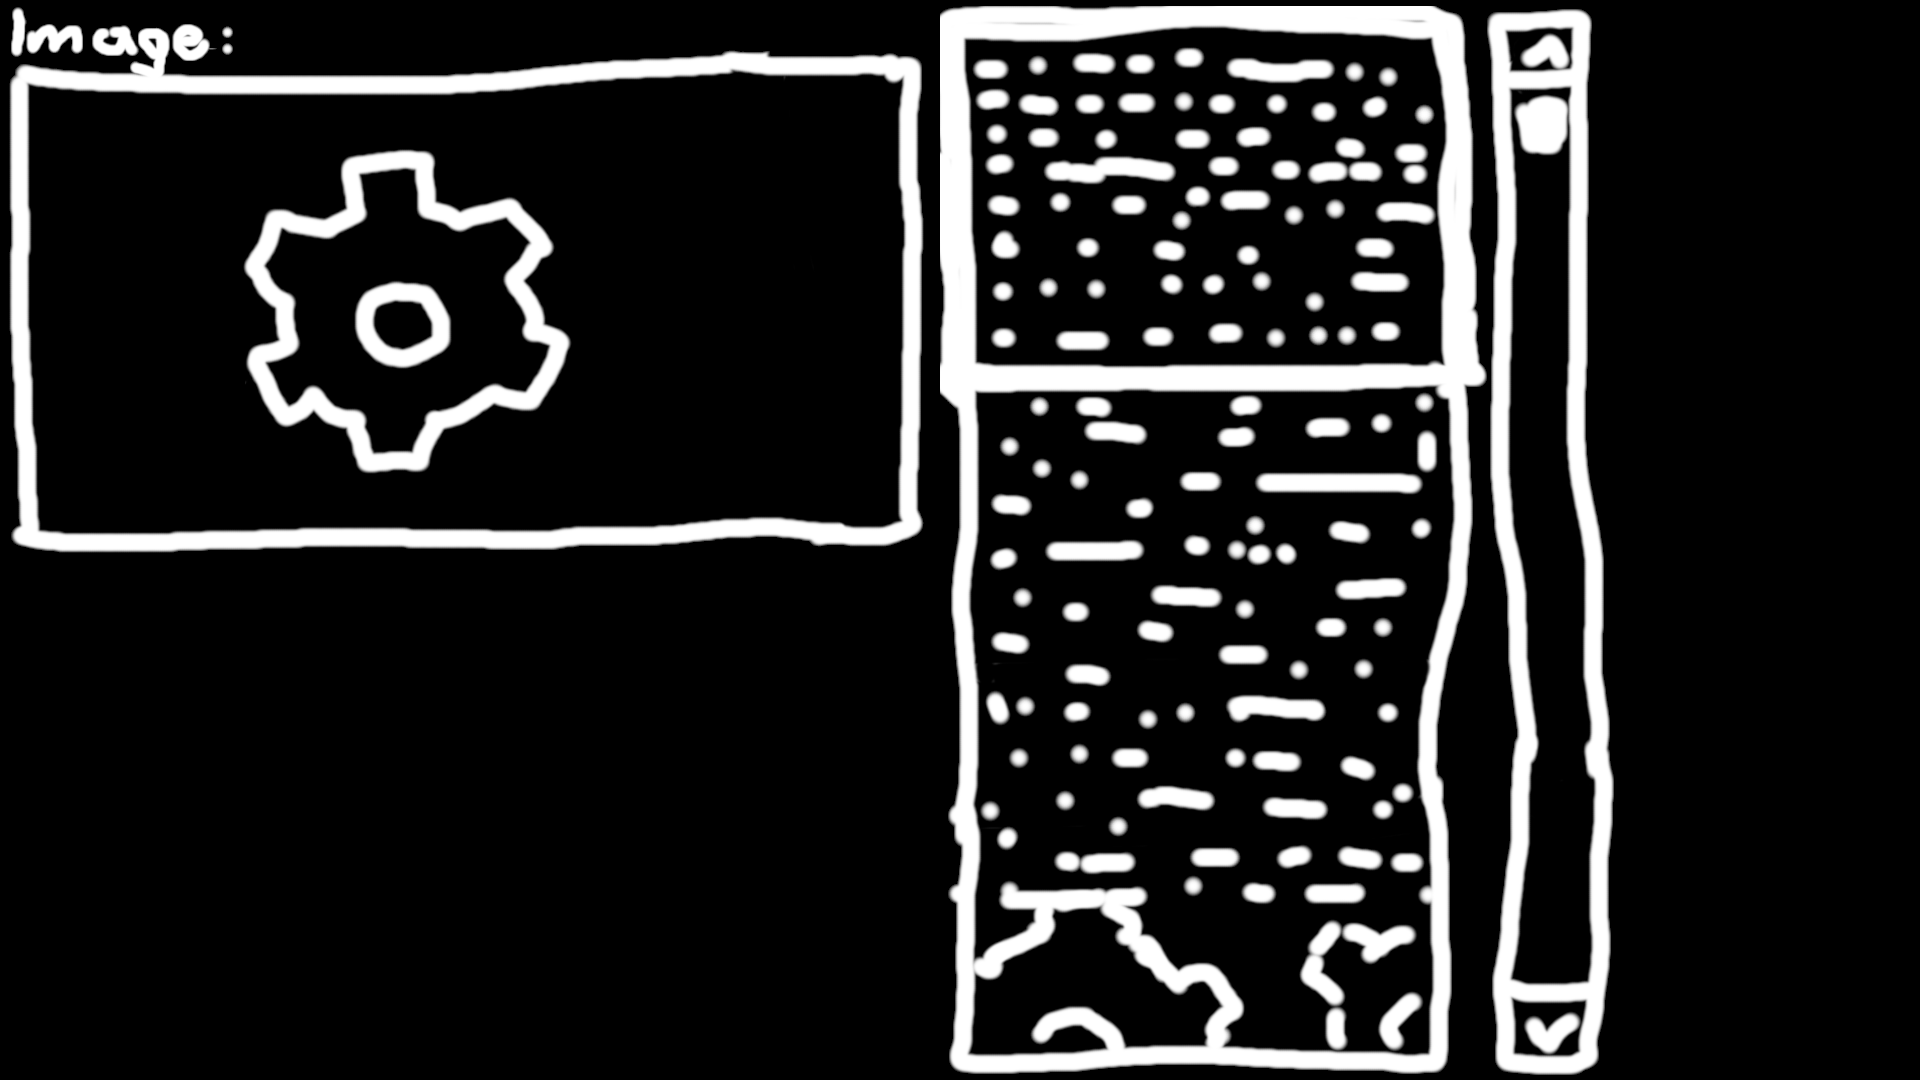
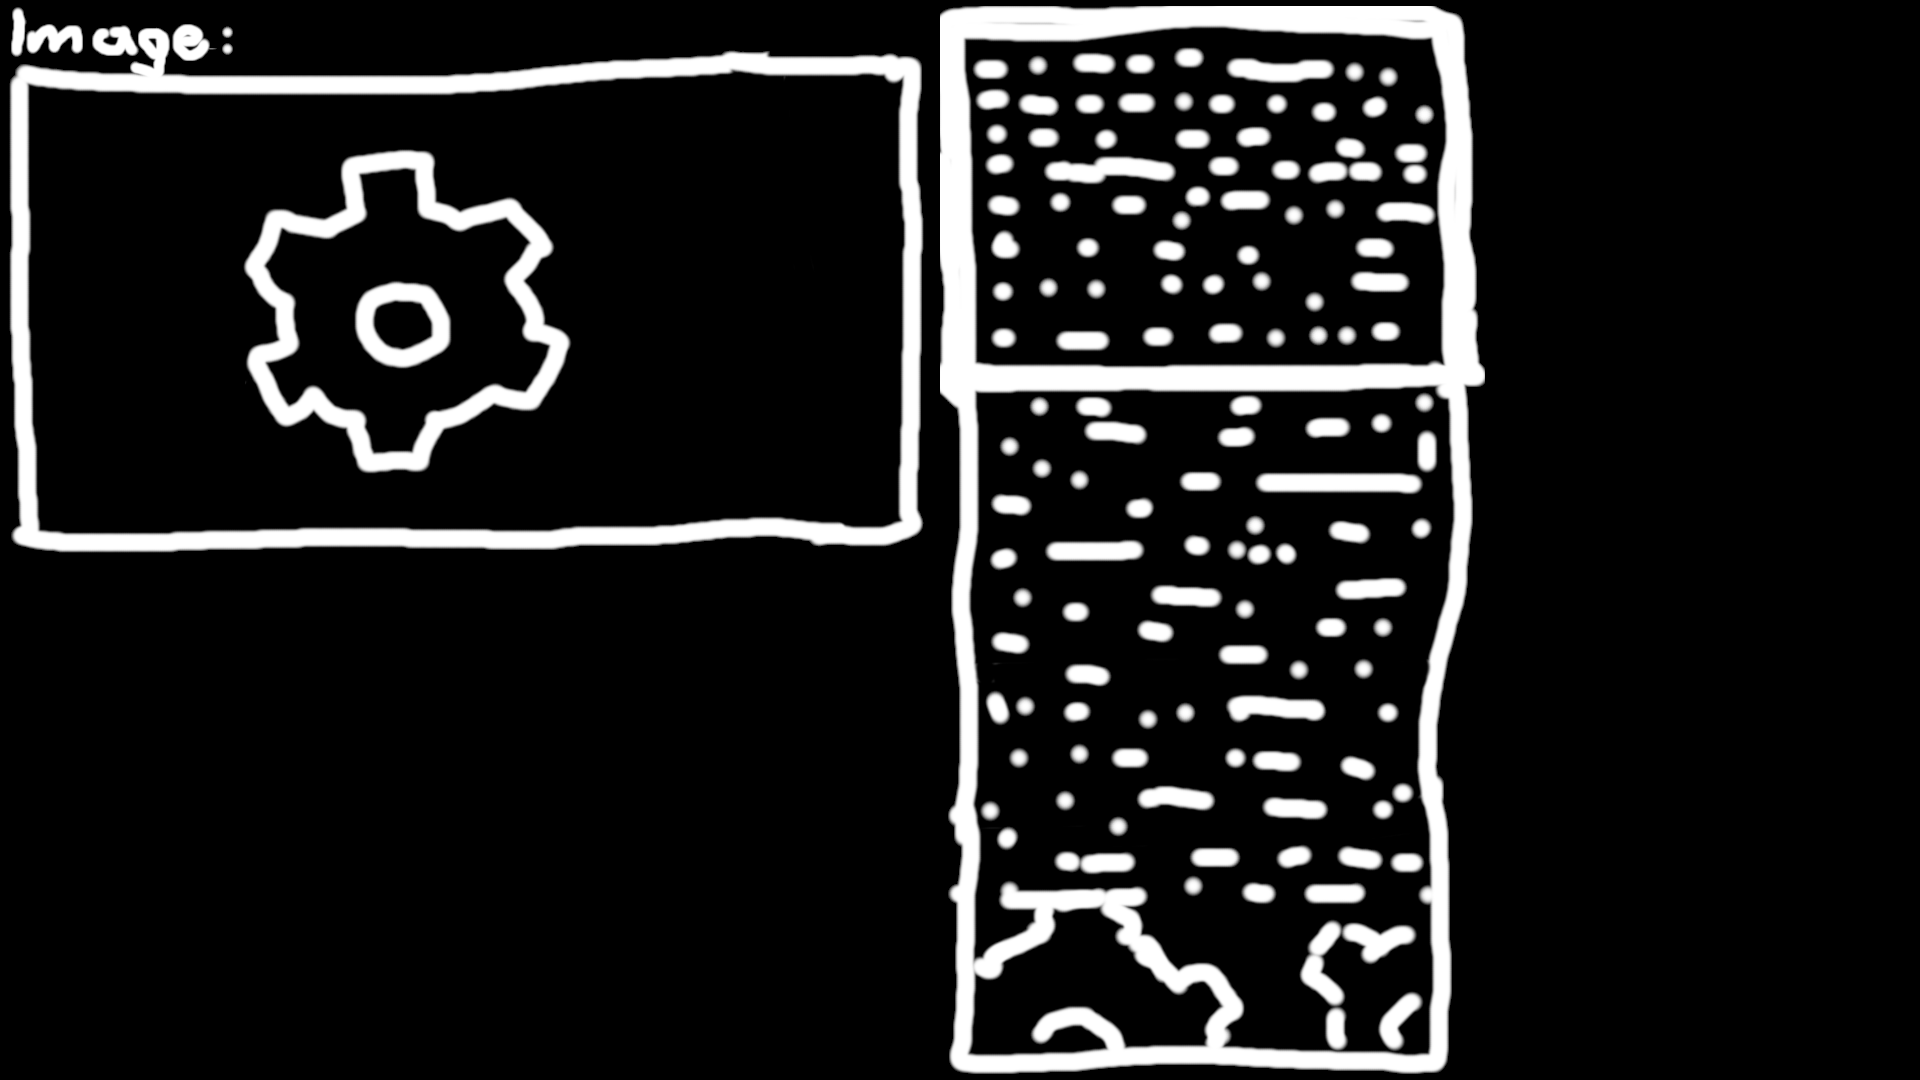
Fixing more around the vertical slider bar in the bitmap mini game.

Changed region(s): [[0.75, 0.0, 0.8438, 1.0]]

diff --git a/RallyTheRobots/GUI/Common/InputChecker.cs b/RallyTheRobots/GUI/Common/InputChecker.cs
@@ -179,13 +179,13 @@ namespace RallyTheRobots.GUI.Common
             Vector2 mousePosition = resolution.ScreenToGameCoord(new Vector2(mouseScreenPosition.X, mouseScreenPosition.Y));
             Rectangle buttonAreaSliderRect = buttonArea.GetHorizontalSliderRectangle();
             if ((int)mousePosition.X < buttonAreaSliderRect.X + (int)offset.X - buttonArea.SliderBorderLeft || (int)mousePosition.X > buttonAreaSliderRect.X + (int)offset.X + buttonAreaSliderRect.Width + buttonArea.SliderBorderRight || buttonAreaSliderRect.Width == 0)
-                return -2; //TODO: This value need explaining
+                return -2; //This click was outside of the borders of the horizontal slider
             else if ((int)mousePosition.X <= buttonAreaSliderRect.X + (int)offset.X)
-                return -1; //TODO: This value need explaining
+                return -1; //This click was on to the left border of the horizontal slider
             else if ((int)mousePosition.X >= buttonAreaSliderRect.X + (int)offset.X + buttonAreaSliderRect.Width)
-                return 101; //TODO: This value need explaining
+                return 101; //This click was on the right border of the horizontal slider
             else
-                return (int)((mousePosition.X - (buttonAreaSliderRect.X + offset.X)) / buttonAreaSliderRect.Width * 100f + 0.5f); //TODO: This value should be explained too
+                return (int)((mousePosition.X - (buttonAreaSliderRect.X + offset.X)) / buttonAreaSliderRect.Width * 100f + 0.5f); //Current position of the click of the mouse within the horizontal slider rectangle, recounted to max 100
         }
         public virtual int VerticalValueMouseSliderButtonArea(ButtonArea buttonArea, Vector2 offset, IResolution resolution)
         {
@@ -193,13 +193,13 @@ namespace RallyTheRobots.GUI.Common
             Vector2 mousePosition = resolution.ScreenToGameCoord(new Vector2(mouseScreenPosition.X, mouseScreenPosition.Y));
             Rectangle buttonAreaSliderRect = buttonArea.GetVerticalSliderRectangle();
             if ((int)mousePosition.Y < buttonAreaSliderRect.Y + (int)offset.Y - buttonArea.SliderBorderTop || (int)mousePosition.Y > buttonAreaSliderRect.Y + (int)offset.Y + buttonAreaSliderRect.Height + buttonArea.SliderBorderBottom || buttonAreaSliderRect.Height == 0)
-                return -2; //TODO: This value need explaining
+                return -2; //This click was outside of the borders of the vertical slider
             else if ((int)mousePosition.Y <= buttonAreaSliderRect.Y + (int)offset.Y)
-                return -1; //TODO: This value need explaining
+                return -1; //This click was on the the top border of the vertical slider
             else if ((int)mousePosition.Y >= buttonAreaSliderRect.Y + (int)offset.Y + buttonAreaSliderRect.Height)
-                return 101; //TODO: This value need explaining
+                return 101; //This click was on the bottom border of the vertical slider
             else
-                return (int)((mousePosition.Y - (buttonAreaSliderRect.Y + offset.Y)) / buttonAreaSliderRect.Height * 100f + 0.5f); //TODO: This value should be explained too
+                return (int)((mousePosition.Y - (buttonAreaSliderRect.Y + offset.Y)) / buttonAreaSliderRect.Height * 100f + 0.5f); //Current position of the click of the mouse within the vertical slider rectangle, recounted to max 100
         }
         public virtual bool HasMouseWheelMoved()
         {

diff --git a/RallyTheRobots/GUI/BitmapMinigameScreen.cs b/RallyTheRobots/GUI/BitmapMinigameScreen.cs
@@ -101,6 +101,7 @@ namespace RallyTheRobots.GUI
 
             _upButton.AddImage("bitmap_mg_up");
             _upButton.Position = new Vector2(1100, 5);
+            _upButton.SetButtonSelectAction(new ChangeValueButtonAction(_positionSlider, 0, -1));
             AddButtonArea(_upButton);
 
             _positionSlider.AddImage("bitmap_mg_slider_bar", ButtonAreaImageNameTypeEnum.Actual, ButtonAreaImagePositioningEnum.ValueVerticalSlider, ButtonAreaImageStackDirectionEnum.None);
@@ -110,12 +111,17 @@ namespace RallyTheRobots.GUI
             _positionSlider.SliderBorderBottom = 45;
             AddButtonArea(_positionSlider);
 
+
             _downButton.AddImage("bitmap_mg_down");
             _downButton.Position = new Vector2(1100, 975);
+            _downButton.SetButtonSelectAction(new ChangeValueButtonAction(_positionSlider, 0, 1));
             AddButtonArea(_downButton);
 
             ScreenChangeOnPauseKey(_screenManager.GetScreen<PauseMenuScreen>());
             SetFocusedButtonArea(_widthButton);
+            SetPreviousHorizontalAction(new ChangeValueFocusedButtonAction(0, -1)); //Using the scroll next horizontal, for sliding horizontal slider bar up
+            SetNextHorizontalAction(new ChangeValueFocusedButtonAction(0, 1)); //Using the scroll previous horizontal, for sliding horizontal slider bar down
+
             base.Initialize();
         }
         public override void EnterScreen(GameTime gameTime, GameSettings gameSettings, Screen oldScreen)
@@ -126,7 +132,7 @@ namespace RallyTheRobots.GUI
             _paletteButton.SetCurrentRollingState("system");
             _addressButton.SetCurrentRollingState("low");
             _modeButton.SetCurrentRollingState("normal");
-            _positionSlider.SetCurrentVerticalValue(0);
+            _positionSlider.SetCurrentVerticalSliderValue(0);
 
             base.EnterScreen(gameTime, gameSettings, oldScreen);
         }

diff --git a/RallyTheRobots/GUI/Common/ButtonArea.cs b/RallyTheRobots/GUI/Common/ButtonArea.cs
@@ -87,7 +87,7 @@ namespace RallyTheRobots
             }
             _buttonAreaImage.Initialize();
         }
-        public void SetCurrentHorizontalValue(int currentValue)
+        public void SetCurrentHorizontalSliderValue(int currentValue)
         {
             _currentHorizontalValue = currentValue;
         }
@@ -95,7 +95,7 @@ namespace RallyTheRobots
         {
             return _currentHorizontalValue;
         }
-        public void SetCurrentVerticalValue(int currentValue)
+        public void SetCurrentVerticalSliderValue(int currentValue)
         {
             _currentVerticalValue = currentValue;
         }
@@ -112,10 +112,10 @@ namespace RallyTheRobots
                     _buttonSelectAction.DoAction(manager, screen, gameTime, gameSettings, gameStatus);
                 }
                 int horizontalSlider = _inputChecker.HorizontalValueMouseSliderButtonArea(this, offset, resolution);
-                if (horizontalSlider != -2) //TODO: This need explaining
+                if (horizontalSlider != -2) // -2 means it was outside the borders of the slider
                     _currentHorizontalValue = Math.Max(Math.Min(horizontalSlider, 100), 0);
                 int verticalSlider = _inputChecker.VerticalValueMouseSliderButtonArea(this, offset, resolution);
-                if (verticalSlider != -2) //TODO: This need explaining
+                if (verticalSlider != -2)  // -2 means it was outside the borders of the slider
                     _currentVerticalValue = Math.Max(Math.Min(verticalSlider, 100), 0);
             }
             if (_inputChecker.InputFunctionWasTriggered(InputFunctionEnum.AlternateSelect, gameTime, gameSettings) || (_inputChecker.MouseButtonWasTriggered(MouseButtonEnum.RightButton, gameTime, gameSettings) && _inputChecker.MouseIsCurrentlyOverButtonArea(this, offset, resolution)))

diff --git a/RallyTheRobots/GUI/Common/ChangeValueFocusedButtonAction.cs b/RallyTheRobots/GUI/Common/ChangeValueFocusedButtonAction.cs
@@ -9,20 +9,20 @@ namespace RallyTheRobots.GUI.Common
 {
     public class ChangeValueFocusedButtonAction : ButtonAction
     {
-        int _changeHorizontalStep;
-        int _changeVerticalStep;
-        public ChangeValueFocusedButtonAction(int changeHorizontalStep, int changeVerticalStep)
+        int _changeHorizontalSliderStep;
+        int _changeVerticalSliderStep;
+        public ChangeValueFocusedButtonAction(int changeHorizontalSliderStep, int changeVerticalSliderStep)
         {
-            _changeHorizontalStep = changeHorizontalStep;
-            _changeVerticalStep = changeVerticalStep;
+            _changeHorizontalSliderStep = changeHorizontalSliderStep;
+            _changeVerticalSliderStep = changeVerticalSliderStep;
         }
         public override void DoAction(ScreenManager manager, Screen screen, GameTime gameTime, GameSettings gameSettings, GameStatus gameStatus)
         {
             ButtonArea buttonArea = screen.GetSelectedOrFocusedButtonArea();
             if (buttonArea != null)
             {
-                buttonArea.SetCurrentHorizontalValue(buttonArea.GetCurrentHorizontalValue() + _changeHorizontalStep);
-                buttonArea.SetCurrentVerticalValue(buttonArea.GetCurrentVerticalValue() + _changeVerticalStep);
+                buttonArea.SetCurrentHorizontalSliderValue(buttonArea.GetCurrentHorizontalValue() + _changeHorizontalSliderStep);
+                buttonArea.SetCurrentVerticalSliderValue(buttonArea.GetCurrentVerticalValue() + _changeVerticalSliderStep);
             }
         }
     }

diff --git a/RallyTheRobots/GUI/SoundMenuScreen.cs b/RallyTheRobots/GUI/SoundMenuScreen.cs
@@ -50,12 +50,16 @@ namespace RallyTheRobots.GUI
             applyButton.SetButtonSelectAction(new ApplySettingFromSliderButtonAction(_masterVolumeButton, _musicVolumeButton));
             AddButtonArea(applyButton);
             SetFocusedButtonArea(returnButton);
+
+            SetPreviousHorizontalAction( new ChangeValueFocusedButtonAction(-1, 0)); //Using the scroll next horizontal, for sliding vertical slider bar
+            SetNextHorizontalAction( new ChangeValueFocusedButtonAction(1, 0)); //Using the scroll previous horizontal, for sliding vertical slider bar
+
             base.Initialize();
         }
         public override void EnterScreen(GameTime gameTime, GameSettings gameSettings, Screen oldScreen)
         {       
-            _masterVolumeButton.SetCurrentHorizontalValue(gameSettings.GetMasterVolume());
-            _musicVolumeButton.SetCurrentHorizontalValue(gameSettings.GetMusicVolume());
+            _masterVolumeButton.SetCurrentHorizontalSliderValue(gameSettings.GetMasterVolume());
+            _musicVolumeButton.SetCurrentHorizontalSliderValue(gameSettings.GetMusicVolume());
             base.EnterScreen(gameTime, gameSettings, oldScreen);
         }
     }

diff --git a/RallyTheRobots/GUI/Common/Screen.cs b/RallyTheRobots/GUI/Common/Screen.cs
@@ -26,8 +26,8 @@ namespace RallyTheRobots.GUI.Common
         protected ButtonArea _focusedAtEnterButtonArea;
         protected ButtonAction _buttonPreviousVerticalAction = new FocusPreviousButtonAreaButtonAction();
         protected ButtonAction _buttonNextVerticalAction = new FocusNextButtonAreaButtonAction();
-        protected ButtonAction _buttonPreviousHorizontalAction = new ChangeValueFocusedButtonAction(-1, 0);
-        protected ButtonAction _buttonNextHorizontalAction = new ChangeValueFocusedButtonAction(1, 0);
+        protected ButtonAction _buttonPreviousHorizontalAction = null;
+        protected ButtonAction _buttonNextHorizontalAction = null;
         protected Screen _previousScreen;
 
         public Screen()

diff --git a/RallyTheRobots/GUI/Common/ChangeValueButtonAction.cs b/RallyTheRobots/GUI/Common/ChangeValueButtonAction.cs
@@ -21,8 +21,8 @@ namespace RallyTheRobots.GUI.Common
         }
         public override void DoAction(ScreenManager manager, Screen screen, GameTime gameTime, GameSettings gameSettings, GameStatus gameStatus)
         {
-            _buttonArea.SetCurrentHorizontalValue(_buttonArea.GetCurrentHorizontalValue() + _changeHorizontalStep);
-            _buttonArea.SetCurrentVerticalValue(_buttonArea.GetCurrentVerticalValue() + _changeVerticalStep);
+            _buttonArea.SetCurrentHorizontalSliderValue(_buttonArea.GetCurrentHorizontalValue() + _changeHorizontalStep);
+            _buttonArea.SetCurrentVerticalSliderValue(_buttonArea.GetCurrentVerticalValue() + _changeVerticalStep);
         }
     }
 }
